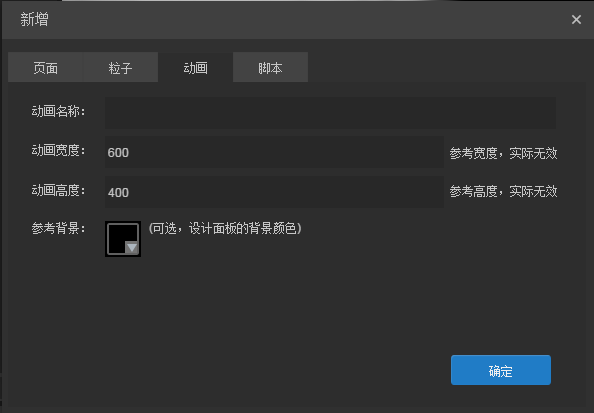
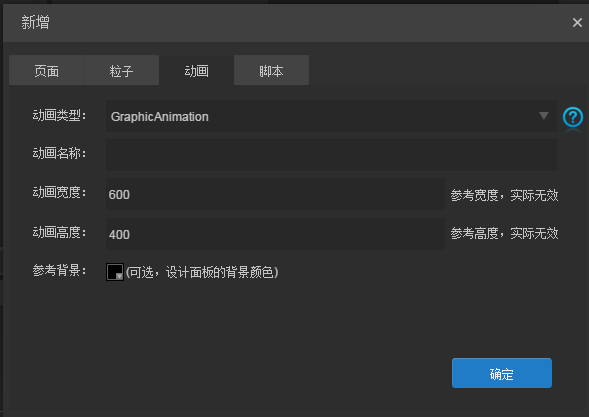
editor TimeLine Animation

diff --git a/Chinese/LayaAir_AS3/IDE/Design_Mode/NewPanel/readme.md b/Chinese/LayaAir_AS3/IDE/Design_Mode/NewPanel/readme.md
@@ -1,49 +1,50 @@
 # UI页面、粒子、动画、脚本新增面板详解
 
->  在项目管理器器中，右键可以新建UI页面、粒子、动画、脚本，本篇将针对这些功能的一些参数展开介绍。
->
+        在项目管理器器中，右键可以新建UI页面、粒子、动画、脚本，如图1所示，本篇将针对这些功能的一些参数展开介绍。
 
-   ![blob.png](img/1.png)<br/>
+        ![blob.png](img/1.png)<br/>
         	（图1）
 
 
 
-## 一、新建UI页面
+### 一、新建UI页面
 
-**在新建页面里，可以创建View与Dialog两种UI界面。如下图所示**：
+**在新建的面板中，`页面`栏里可以创建View与Dialog两种UI界面。如图2所示：**
 
-![blob.png](img/2.png)<br/>
+        ![blob.png](img/2.png)<br/>
         	（图2）
 
 **【参数说明】**
 
-**页面类型**：
+**页面类型：**
 
         默认为View，该类型的页面，没有关闭功能，通常用于游戏背景与一直保持打开的层级页面。另一个选项类型为Dialog，Dialog继承自View，除View的所有功能外，还可以实现会话框的弹出、拖动，关闭窗口等功能，常用于游戏的弹出界面。
 
-**页面名称**：
+**页面名称：**
 
-        新建的页面文件名，该项必须填写。
+        新建的页面文件名，该项必须填写。 
 
-**参考视图**：
+**参考视图：**
 
         参考视图是通过在设计界面的背景加载一张美术设计原图，方便UI的制作拼接与原设计保持一致的参照图片。该项为可选，参考视图的背景图片并不会导出到项目中，仅用于UI制作的参照。
 
-**页面宽度**：
+**页面宽度：**
 
 	页面的宽，设置后超过宽度的显示对象不会被渲染，勾选“仅作为参考宽度”后，超过宽度的显示对象也会被渲染，但是由于需要实时计算宽度，对性能会产生额外的压力，不建议勾选。
 
-**页面高度**：
+**页面高度：**
 
 	页面的高，设置后超过高度的显示对象不会被渲染，勾选“仅作为参考宽度”后，超过高度的显示对象也会被渲染，但是由于需要实时计算高度，对性能会产生额外的压力，不建议勾选。
 
-**参考背景**：
+**参考背景：**
 
         参考背景与参考视图类似，仅用于UI制作的对比参照，不会在项目中生效。是可选项。
 
 
 
-## 二、新建粒子
+
+
+### **二、新建粒子**
 
 	在新建粒子里，可以创建重力模式与半径模式的2D例子动画，也可以创建3D粒子动画。如下图所示：
 
@@ -52,67 +53,83 @@
 
 **【参数说明】**
 
-**粒子类型**：
+**粒子类型：**
 
-         粒子类型默认为重力模式，重力的粒子是一个角度向另一个方向呈发射式的粒子效果。半径模式是围绕中心点为半径的旋转式粒子效果。重力模式与半径模式没有根本性区别，重力模式通过调整参数可以实现半径模式的效果，半径模式也可以调整为重力模式的效果，区别仅在于初始参数的配置不同。粒子3D模式是基于3维的粒子效果。
+　　粒子类型为重力模式、半径模式、粒子3D模式三种，默认为重力模式。
 
-**粒子名称**：
+　　重力模式的粒子是一个角度向另一个方向呈发射式的粒子效果。
+
+　　半径模式是围绕中心点为半径的旋转式粒子效果。半径模式与重力模式没有根本性区别，重力模式通过调整参数可以实现半径模式的效果，半径模式也可以调整为重力模式的效果，区别仅在于初始参数的配置不同。
+
+　　粒子3D模式是基于3维的粒子效果。
+
+**粒子名称：**
 
         新建的粒子文件名，该项必须填写。
 
 
 
-## 三、新建动画
+
+
+### **三、新建动画**
 
         在新建动画里，可以创建一个帧动画。
 
-![blob.png](img/4.png)<br/>
+        ![blob.png](img/4.png)<br/>
         	（图4）
 
 **【参数说明】**
 
-**动画名称**：
+**动画类型：**
+
+　　 动画类型为GraphicAnimation与EffectAnimation两种。
+
+　　 GraphicAnimation是默认选项，该项可以创建一个包含多个动画效果的时间轴动画。
+
+　　 EffectAnimation为动画模板，只能创建一个动画效果的模板，将效果作用于某个组件，而不能独立显示动画效果。
+
+**动画名称：**
 
         新建的帧动画文件名，该项必须填写。
 
-**动画宽度**：
+**动画宽度：**
 
-动画宽度的设置仅作为设计时的背景宽度使用，与在游戏运行中该设置无效。
+　　动画宽度的设置仅作为设计时的背景宽度使用，在游戏运行中该设置无效。
 
-**动画高度**：
+**动画高度：**
 
-         动画高度的设置仅作为设计时的背景高度使用，与在游戏运行中该设置无效。
+        动画高度的设置仅作为设计时的背景高度使用，在游戏运行中该设置无效。
 
-**参考背景**：
+**参考背景：**
 
         参考背景也仅用于动画制作的背景色对比参照，不会在项目中生效。是可选项。
 
 
 
-## 四、新建脚本
+
+
+### **四、新建脚本**
 
         在新建脚本里，可以创建扩展脚本和附加脚本。如下图所示：
 
- ![blob.png](img/5.png)<br/>
+        ![blob.png](img/5.png)<br/>
         	（图5）
 
+     **【参数说明】**
 
-
-**【参数说明】**
-
-**脚本类型**：
+**脚本类型：**
 
         默认为扩展脚本，该类型可以继承对象，扩展对象的属性，下图"aa、bb"等属性为生成扩展脚本并修改属性参数后，拖拽到对象的属性面板后的扩展属性。
 
- ![blob.png](img/6.png)<br/>
+        	![blob.png](img/6.png)<br/>
         	（图6）
 
         附加脚本不会继承和扩展对象，而是通过附加脚本针对对象进行控制。
 
-**脚本名称**：
+**脚本名称：**
 
         新建脚本的文件名，该项必须填写。
 
-**运行类名**：
+**运行类名：**
 
         运行脚本时对应的类名，比如：game.view.myScript
